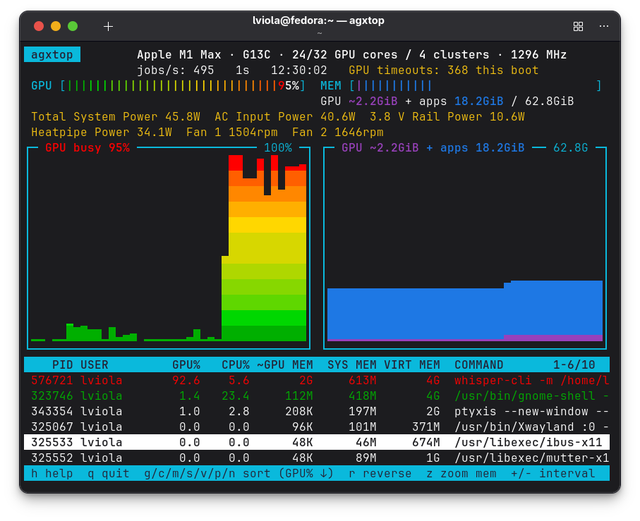
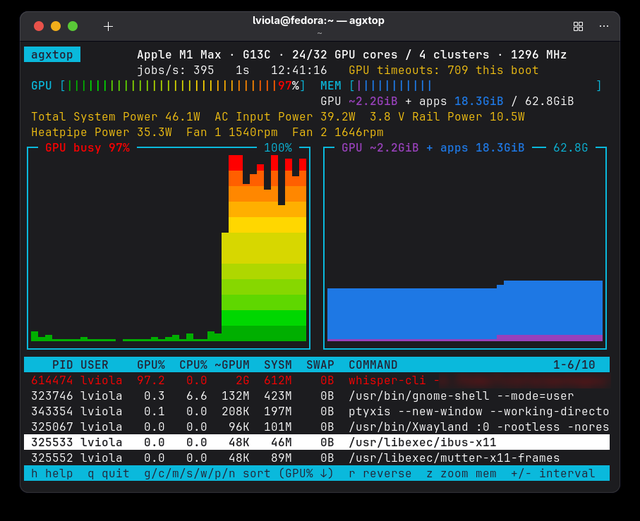
Narrower process table columns; new screenshot

diff --git a/src/ui.rs b/src/ui.rs
@@ -573,15 +573,17 @@ impl Ui {
         }
 
         // process table
+        // USER as wide as the longest name shown (4..10)
+        let uw = self.procs.values().map(|p| p.user.chars().count()).max().unwrap_or(0).clamp(4, 10);
         let hdr = format!(
-            "{:>7} {:<10} {:>6} {:>6} {:>8} {:>8} {:>8}  COMMAND",
+            "{:>7} {:<uw$} {:>5} {:>5} {:>5} {:>5} {:>5}  COMMAND",
             "PID",
             "USER",
             "GPU%",
             "CPU%",
             // estimated sizes are marked once here instead of on every row
-            if self.mem_est { "~GPU MEM" } else { "GPU MEM" },
-            "SYS MEM",
+            if self.mem_est { "~GPUM" } else { "GPUM" },
+            "SYSM",
             "SWAP"
         );
         p.put(y, 0, &format!("{hdr:<width$}", width = w as usize), Painter::cpb(5));
@@ -623,9 +625,9 @@ impl Ui {
         }
         for (i, pr) in rows.iter().skip(self.top).take(self.page).enumerate() {
             let g = pr.gpu.map_or("n/a".into(), |g| format!("{g:.1}"));
-            let user: String = pr.user.chars().take(10).collect();
+            let user: String = pr.user.chars().take(uw).collect();
             let line = format!(
-                "{:>7} {:<10} {:>6} {:>6} {:>8} {:>8} {:>8}  {}",
+                "{:>7} {:<uw$} {:>5} {:>5} {:>5} {:>5} {:>5}  {}",
                 pr.pid,
                 user,
                 g,
